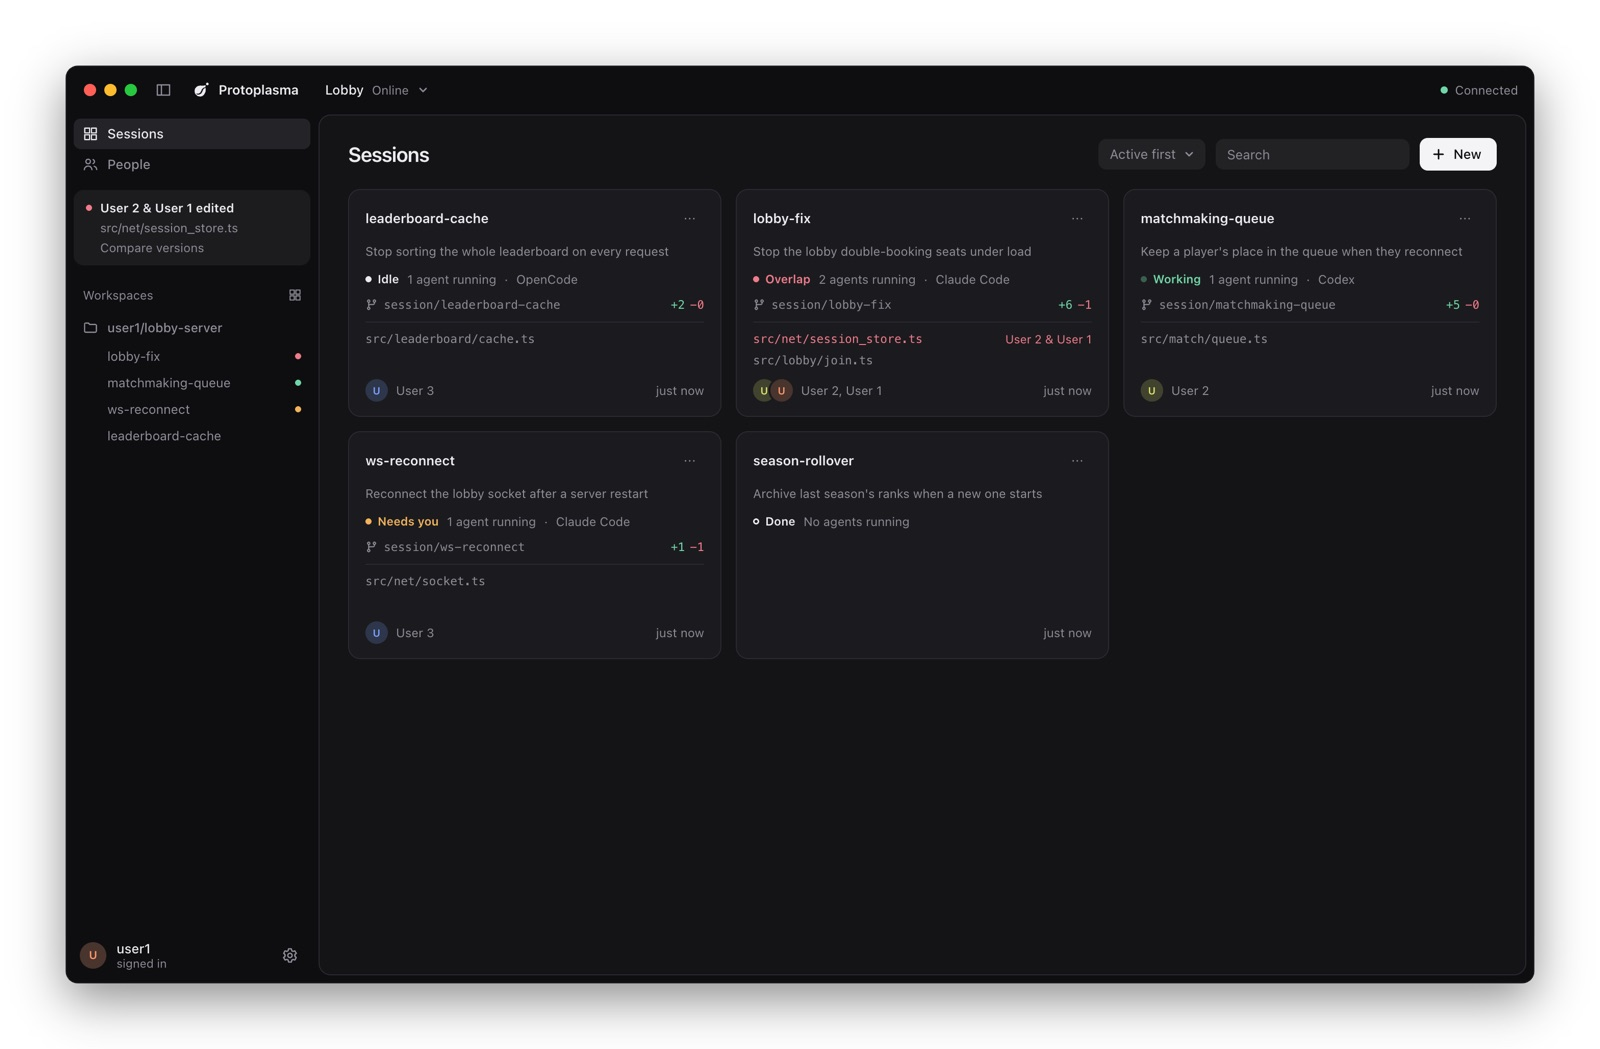
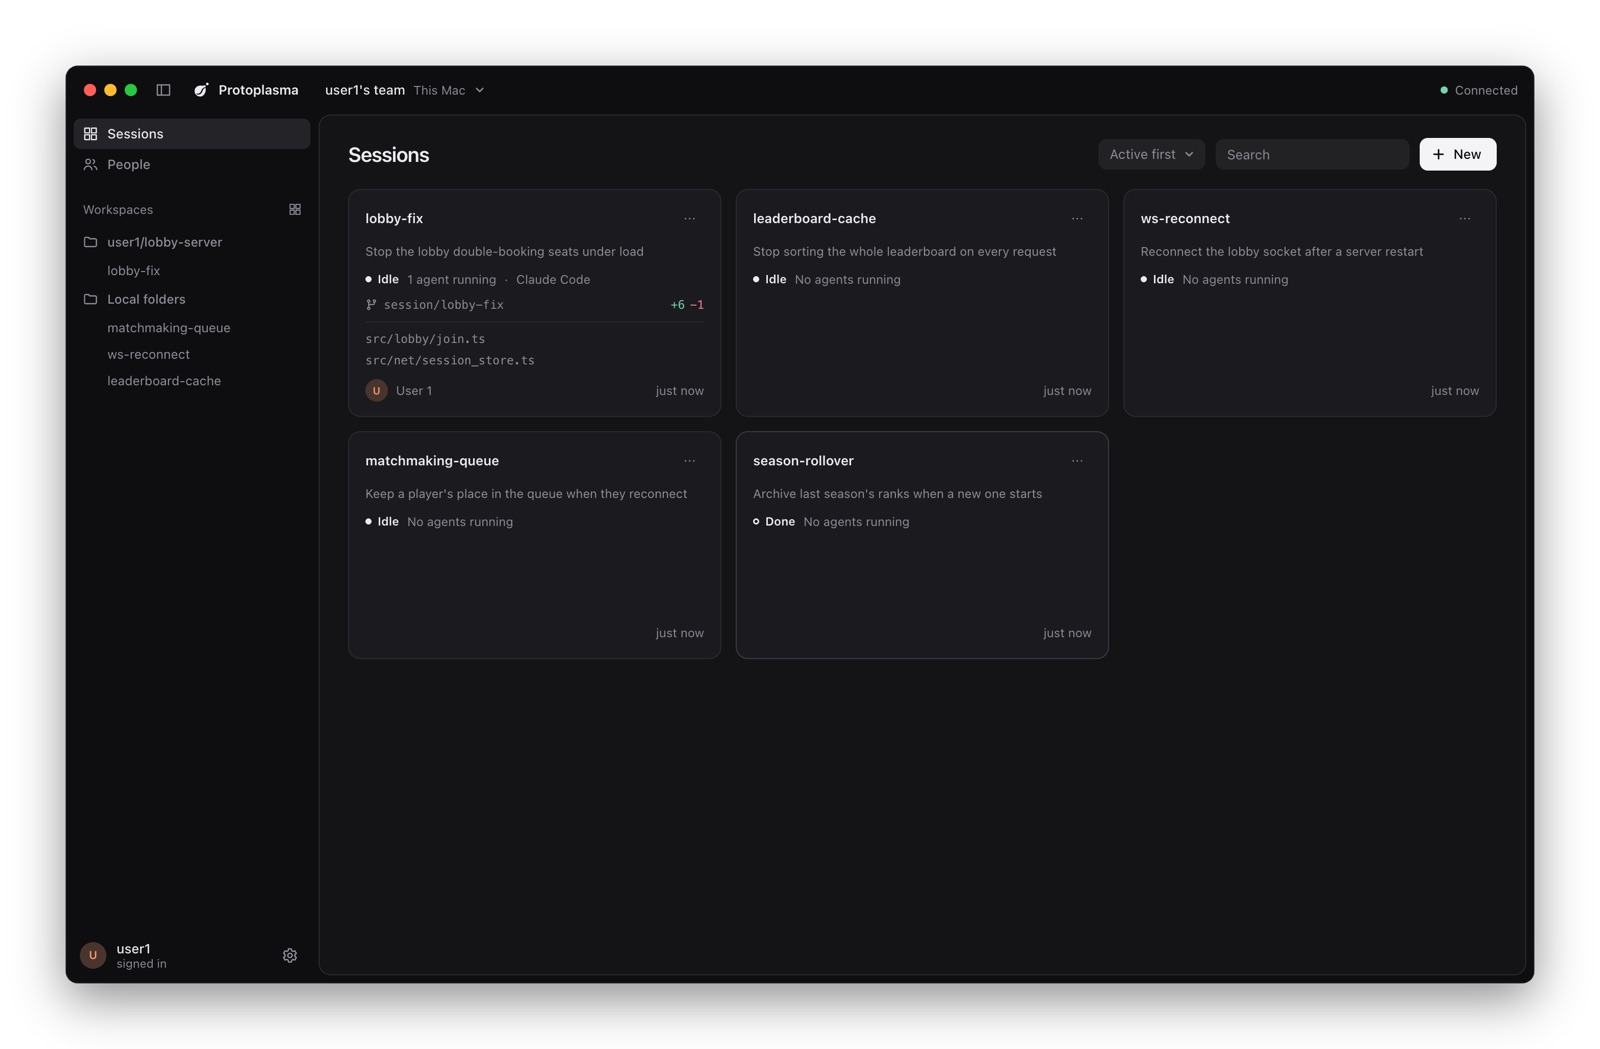
Just me: its own empty-page text, docs, and the review page with the solo screens

diff --git a/docs/review/2026-11-16/index.html b/docs/review/2026-11-16/index.html
@@ -82,6 +82,7 @@
     <div><span class="tag">simpler · U7</span><b>A shorter bar under each terminal</b><span>Whose agent and which CLI move up into the label ("Me · Claude Code"). The bar is just status, changes, branch and actions.</span></div>
     <div><span class="tag">simpler · U4</span><b>One "Open beside"</b><span>"New pane" becomes Open beside: another agent of this session, or another session, from one menu.</span></div>
     <div><span class="tag">more useful · U10</span><b>Overlaps say what to do</b><span>An overlap alert reads "Compare versions" and opens the file with the Conflicts list beside it.</span></div>
+    <div><span class="tag">simpler · new</span><b>Start on your own</b><span>No team to set up. A first launch opens a private "Just me" space; making a team is for later, and Move to a team carries a session there with its folder and branch.</span></div>
     <div><span class="tag">safer · new</span><b>Red for what you can't take back</b><span>Sign out, Leave or Delete team, Remove someone and Delete session are red. Leave/Delete team has its own row, away from Switch team.</span></div>
   </section>
 
@@ -168,6 +169,29 @@
     </div>
   </section>
 
+  <section class="screen" aria-labelledby="soloTitle">
+    <div class="screen-head"><h2 id="soloTitle">Start on your own: "Just me" (new)</h2></div>
+    <div class="pair">
+      <figure><img src="img/after-solo.jpg" alt="A first launch: the Sessions page in the Just me space, with New ready" loading="lazy" width="1600" height="1049"></figure>
+      <figure><img src="img/after-solo-settings.jpg" alt="Settings, Team, in the Just me space: invite people on this Wi-Fi, or make a team to work with people anywhere" loading="lazy" width="1600" height="1049"></figure>
+    </div>
+    <div class="notes">
+      <div><h3>What changed</h3><ul>
+        <li>Someone with no team lands on Sessions straight after signing in. The title bar says "Just me". Their first choice is what the agent should do.</li>
+        <li>It's private: a space on their own Mac that nothing outside sees, until they invite someone.</li>
+        <li>Settings → Team offers the two ways to work with people: invite them here (same Wi-Fi), or make a team (anywhere).</li>
+        <li>If a teammate adds them to a team, an alert says "You were added to Acme". One click opens it.</li>
+        <li>Anyone who already has a team sees no change: the app opens their last team, as before.</li>
+      </ul></div>
+      <div><h3>Moving work into a team</h3><ul>
+        <li><b>Move to a team…</b> sits in each session's menu and its Session panel.</li>
+        <li>The session is made in the team with the same name and goal. Agents you start there work in the same folder and branch, so the work carries on, changes not yet committed included.</li>
+        <li>Teammates get your work once you Commit &amp; Push; the move reminds you if anything isn't pushed.</li>
+        <li>The old session is marked done. Its plan, notes and comments stay with it.</li>
+      </ul></div>
+    </div>
+  </section>
+
   <section class="screen" aria-labelledby="dangerTitle">
     <div class="screen-head"><h2 id="dangerTitle">Settings: Team and Account (new since your first look)</h2></div>
     <div class="pair">
@@ -186,13 +210,13 @@
   <section class="ask" aria-labelledby="askTitle">
     <h2 id="askTitle">Still to decide</h2>
     <ol>
-      <li><b>The team picker (U2).</b> Proposed: open your last team, or your only one, straight away. Someone brand new gets a team made for them, and This Mac and nearby teams move under "More". Not built yet, because it changes the first thing new people see.</li>
+      <li><b>The team picker (U2): done another way.</b> Nobody needs a team to start: see "Just me" above. The team window stays as it was, for switching and making teams.</li>
       <li><b>Hand off and Continue: settled.</b> They stay as a word on the bar, so the tool is in sight for everyone.</li>
       <li><b>Session cards.</b> Keep the hairline, or go borderless on a soft fill like the buttons?</li>
     </ol>
   </section>
 
-  <footer>Screens from <code>npm run screenshot</code> with the staged team (User 1 to User 3). e2e 146 of 146 with every change on this page. Before = commit 6182f5f, after = this branch.</footer>
+  <footer>Screens from <code>npm run screenshot</code> with the staged team (User 1 to User 3). e2e 149 of 149 and the customer simulation 93 of 93 with every change on this page. Before = commit 6182f5f, after = this branch.</footer>
 </div>
 
 <script>

diff --git a/AGENTS.md b/AGENTS.md
@@ -530,6 +530,14 @@ docs/             screenshots (sources), readme/ (the README's images, dark and 
 - **Plan and Memory** open in the side panel (`#planPanel`, `#memoryPanel` in `#panel`, `panelTab` `plan`/`memory`,
   from their rows under Session), so the agents stay on the stage. `tab` is only what the stage shows: agents, a
   stopped agent's screen, pull requests or issues.
+- **Just me** (renderer `isSolo`, `startSolo`, `checkInvites`, `moveSession`): someone with no team at all (every hub
+  answered) lands in a private This Mac team made for them (`<login>'s team`, its key in localStorage `solo`), shown as
+  "Just me" while nobody else is on it. Its hub stays on 127.0.0.1 until they invite someone. While in it, the app
+  lists teams on window focus and once a minute, and a team not opened before (`seenTeams`) shows as an alert. **Move
+  to a team…** makes the session in another team with the same name and goal (a renamed one under its key, then
+  renamed) and copies its saved source, so agents there use the same folder and branch; the old one is marked done.
+- **Destructive buttons** (sign out, leave or delete a team, remove someone, delete a session) are `.btn.danger` or a
+  menu item with `danger: true`, and kept apart from everyday buttons.
 - **Settings** is a non-modal `<dialog>`, so the sidebar and main area are made `inert` while it's open.
 - **Preferences** live in localStorage `prefs` (`DEFAULT_PREFS`). An input with `data-pref="key"` saves itself.
 - **Pane mode** (panes.js): up to 3 sessions side by side, saved per team as `panes:<teamKey>`.

diff --git a/docs/sessions/2026-11-16-redesign.md b/docs/sessions/2026-11-16-redesign.md
@@ -2,7 +2,14 @@
 
 Worktree branch `claude/fable-5-2-redesign-dd3b36`. Not pushed, not merged.
 
-## Status (end of 16 Nov)
+## Later on 16 Nov, after David approved the look
+- Destructive actions are red; Leave/Delete team has its own row away from Switch team.
+- **Just me**: no team needed to start; invites show as an alert; **Move to a team…** carries a session (same folder
+  and branch) into a team. David's idea, approved: "they can just use it as a developer IDE on its own".
+- Checks: `npm run e2e` 149 of 149, the customer simulation 93 of 93 (fresh playground), review page version 4.
+- The README pictures and demo gif are not regenerated yet.
+
+## Status (end of 16 Nov, before David's notes)
 - **Built, waiting for David's review:** the look below (commit `f8c49fe`), plus U7 (CLI name in the label above
   the terminal, so the bar is status, changes, branch and actions), U4 ("New pane" is **Open beside**, a menu: an
   agent of this session, or "Pick a session…" for pane mode) and U10 (an overlap alert says "Compare versions" and
